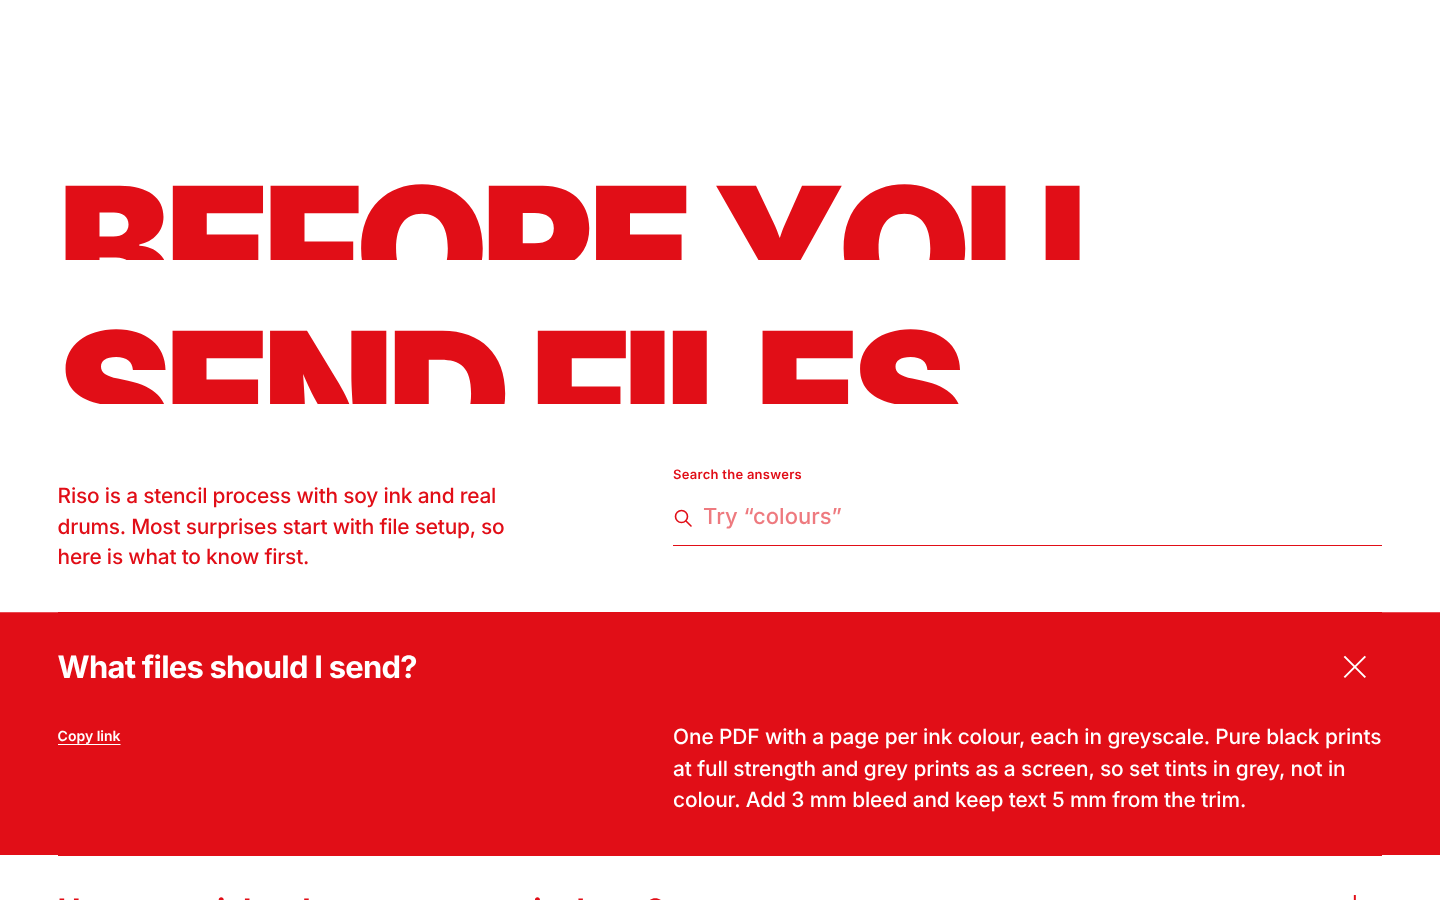
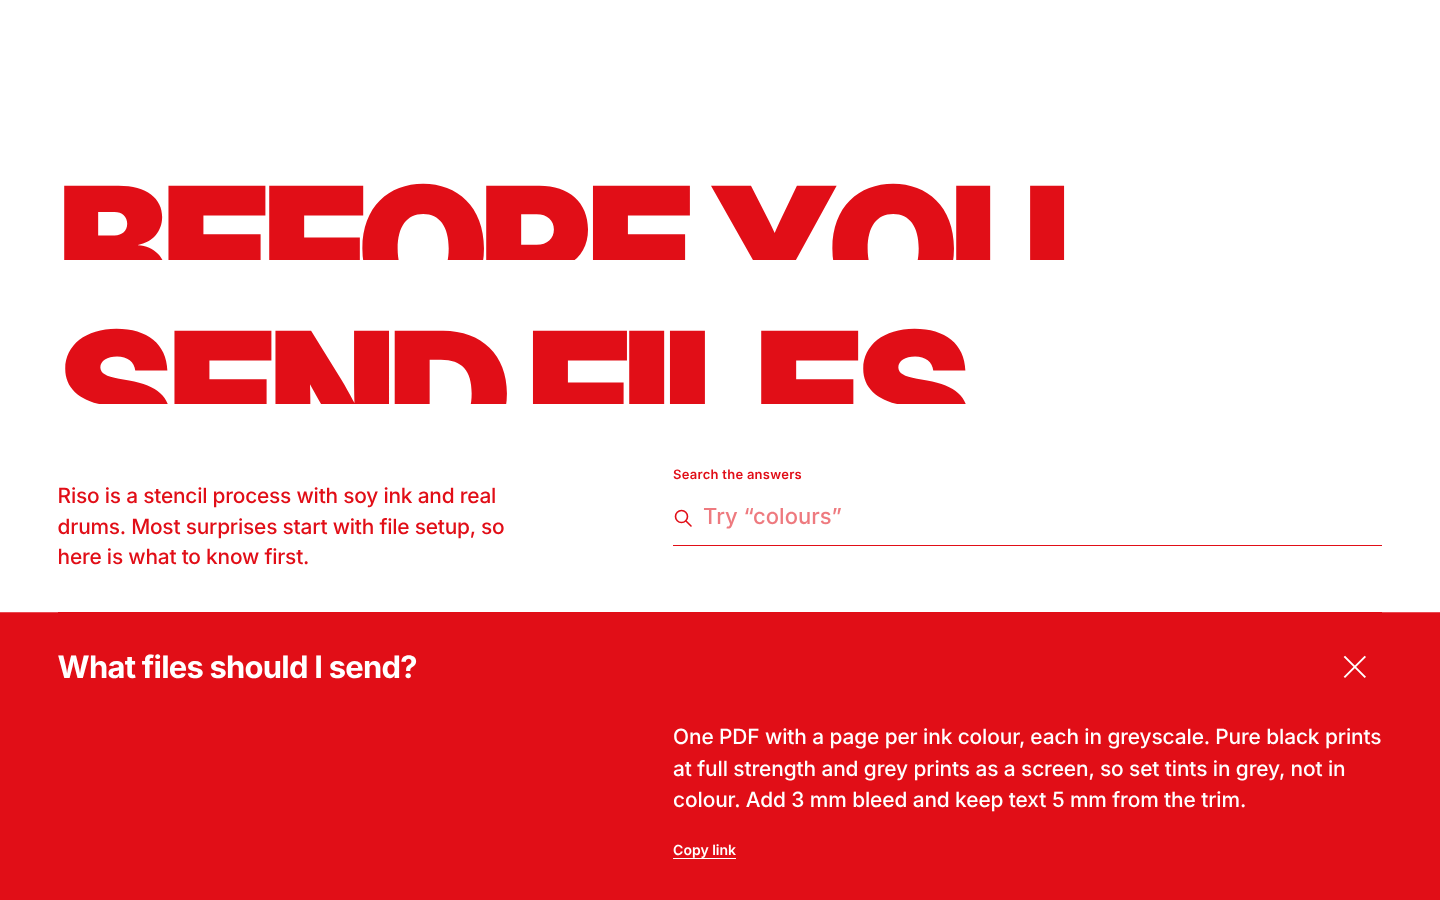
slit-type-faq: round 2 polish: pausable ticker, phone cut, All count
Claude-Session: https://claude.ai/code/session_0118DWJbsYeX8C27set6fKie

diff --git a/components/slit-type-faq/slit-type-faq.tsx b/components/slit-type-faq/slit-type-faq.tsx
@@ -372,10 +372,14 @@ const css = `
   margin-top: -0.06em;
 }
 .stf-title[data-slit="true"] { cursor: default; }
+.stf-title { --stf-cut-k: 1; }
+@container (max-width: 560px) {
+  .stf-title { --stf-cut-k: 0.86; }
+}
 .stf-word { display: inline-block; white-space: nowrap; }
 .stf-ch {
   display: inline-block;
-  transform: translateY(var(--stf-cut));
+  transform: translateY(calc(var(--stf-cut) * var(--stf-cut-k)));
   transition: transform 820ms var(--stf-ease-out);
   transition-delay: min(calc(var(--i) * 26ms), 420ms);
 }
@@ -402,11 +406,38 @@ const css = `
   letter-spacing: 0.02em;
   text-transform: uppercase;
   padding: 0.55em 0;
+  display: flex;
+  align-items: center;
+  gap: 12px;
+}
+.stf-ticker-mask {
+  flex: 1;
+  min-width: 0;
+  overflow: hidden;
   -webkit-mask-image: linear-gradient(90deg, transparent, #000 8%, #000 92%, transparent);
   mask-image: linear-gradient(90deg, transparent, #000 8%, #000 92%, transparent);
 }
+.stf-ticker-toggle {
+  flex: none;
+  display: grid;
+  place-items: center;
+  width: 36px;
+  height: 36px;
+  appearance: none;
+  border: 0;
+  border-radius: 999px;
+  background: transparent;
+  color: var(--k);
+  cursor: pointer;
+  transition: background-color 160ms ease, color 160ms ease;
+}
+.stf-ticker-toggle svg { width: 14px; height: 14px; }
+.stf-ticker-toggle:hover { background: var(--k); color: var(--o); }
+.stf-ticker-toggle:focus-visible { outline: 2px solid var(--k); outline-offset: 2px; }
 .stf-ticker-track { display: inline-flex; animation: stf-ticker 38s linear infinite; }
-.stf-ticker:hover .stf-ticker-track { animation-play-state: paused; }
+.stf-ticker:hover .stf-ticker-track,
+.stf-ticker:focus-within .stf-ticker-track,
+.stf-ticker[data-paused="true"] .stf-ticker-track { animation-play-state: paused; }
 .stf-ticker-run { display: inline-flex; flex: none; }
 .stf-ticker-run span { padding: 0 0.9em; }
 .stf-ticker-run span::after { content: ""; display: inline-block; width: 0.38em; height: 0.38em; border-radius: 50%; background: var(--k); margin-left: 1.8em; vertical-align: 0.14em; }
@@ -648,9 +679,9 @@ const css = `
 }
 .stf-copy:focus-visible { outline: 2px solid var(--o); outline-offset: 3px; }
 @container (min-width: 760px) {
-  .stf-answer { grid-template-columns: minmax(0, 1fr) minmax(0, 1.25fr); gap: 48px; }
-  .stf-tools { order: 0; }
-  .stf-text { order: 1; }
+  .stf-answer { grid-template-columns: minmax(0, 1fr) minmax(0, 1.25fr); column-gap: 48px; row-gap: 20px; }
+  .stf-text,
+  .stf-tools { grid-column: 2; }
 }
 
 .stf-empty { padding: clamp(28px, 4cqi, 56px) 0; border-top: var(--stf-rule) solid var(--k); }
@@ -703,8 +734,9 @@ const css = `
 
 @media (prefers-reduced-motion: reduce) {
   .stf-ch,
-  .stf[data-intro="pending"] .stf-ch { transform: translateY(var(--stf-cut)); transition: none; }
+  .stf[data-intro="pending"] .stf-ch { transform: translateY(calc(var(--stf-cut) * var(--stf-cut-k))); transition: none; }
   .stf-ticker-track { animation: none; }
+  .stf-ticker-toggle { display: none; }
   .stf-fill,
   .stf-row--inv,
   .stf-panel,
@@ -767,8 +799,8 @@ export default function SlitTypeFaq({
   copyLinks = true,
   syncHash = false,
   minHeight = 0,
-  displayFont = '"Helvetica Neue", Helvetica, "Inter Display", Inter, "Arial Black", Arial, sans-serif',
-  textFont = '"Helvetica Neue", Helvetica, Inter, Arial, system-ui, sans-serif',
+  displayFont = '"Inter Display", Inter, -apple-system, BlinkMacSystemFont, "Segoe UI", "Helvetica Neue", "Arial Black", Arial, sans-serif',
+  textFont = 'Inter, -apple-system, BlinkMacSystemFont, "Segoe UI", "Helvetica Neue", Arial, sans-serif',
   onOpenChange,
   ariaLabel,
   className,
@@ -807,6 +839,7 @@ export default function SlitTypeFaq({
   const [query, setQuery] = React.useState("")
   const [category, setCategory] = React.useState(null as string | null)
   const [copied, setCopied] = React.useState(null as string | null)
+  const [tickerPaused, setTickerPaused] = React.useState(false)
   const [introState, setIntroState] = React.useState("pending" as "pending" | "done")
 
   const reduced = React.useCallback(
@@ -931,6 +964,8 @@ export default function SlitTypeFaq({
     return out
   }, [items, texts, query])
 
+  const allCount = texts.filter((t) => matches(t, query)).length
+
   const visible = items
     .map((it, i) => ({ it, i, id: ids[i] }))
     .filter(({ it, i }) => (!category || it.category === category) && matches(texts[i], query))
@@ -982,16 +1017,36 @@ export default function SlitTypeFaq({
         {headline ? <Headline text={headline} id={uid + "-h"} slit={cut > 0} /> : null}
 
         {ticker && ticker.length ? (
-          <div className="stf-ticker" aria-label={ticker.join(", ")} role="note">
-            <div className="stf-ticker-track" aria-hidden="true">
-              {[0, 1].map((copy) => (
-                <div className="stf-ticker-run" key={copy}>
-                  {[...ticker, ...ticker].map((t, k) => (
-                    <span key={k}>{t}</span>
-                  ))}
-                </div>
-              ))}
+          <div className="stf-ticker" data-paused={tickerPaused ? "true" : "false"}>
+            <p className="stf-sr">{ticker.join(". ")}</p>
+            <div className="stf-ticker-mask" aria-hidden="true">
+              <div className="stf-ticker-track">
+                {[0, 1].map((copy) => (
+                  <div className="stf-ticker-run" key={copy}>
+                    {[...ticker, ...ticker].map((t, k) => (
+                      <span key={k}>{t}</span>
+                    ))}
+                  </div>
+                ))}
+              </div>
             </div>
+            <button
+              type="button"
+              className="stf-ticker-toggle"
+              aria-label={tickerPaused ? "Play the moving line" : "Pause the moving line"}
+              aria-pressed={tickerPaused}
+              onClick={() => setTickerPaused((v) => !v)}
+            >
+              {tickerPaused ? (
+                <svg viewBox="0 0 14 14" aria-hidden="true">
+                  <path d="M3.5 2v10l8.5-5z" fill="currentColor" />
+                </svg>
+              ) : (
+                <svg viewBox="0 0 14 14" aria-hidden="true">
+                  <path d="M3 2h3v10H3zM8 2h3v10H8z" fill="currentColor" />
+                </svg>
+              )}
+            </button>
           </div>
         ) : null}
 
@@ -1043,7 +1098,7 @@ export default function SlitTypeFaq({
           <ul className="stf-chips" aria-label="Filter by topic">
             <li>
               <button type="button" className="stf-chip" aria-pressed={category === null} onClick={() => setCategory(null)}>
-                All <small>{Object.values(counts).reduce((a, b) => a + b, 0) || visible.length}</small>
+                All <small>{allCount}</small>
               </button>
             </li>
             {categories.map((c) => (

diff --git a/components/slit-type-faq/demo-cobalt.tsx b/components/slit-type-faq/demo-cobalt.tsx
@@ -29,7 +29,6 @@ export default function SlitTypeFaqCobaltDemo() {
                 </p>
               </>
             ),
-            answerText: "Yes. Drop in an xlsx or csv export and Rostra matches names to staff and times to shifts. import guide column layout spreadsheet",
           },
           {
             category: "Setup",

diff --git a/components/slit-type-faq/README.md b/components/slit-type-faq/README.md
@@ -23,7 +23,8 @@ along.
 - Search across questions and answers, with every word matched in any order and the matches
   marked. When a match is in an answer, a short excerpt around it appears under the question. Esc clears it, ↓ jumps to the first result, and an empty result offers to show
   every question again.
-- Optional category chips with live counts, and an optional ticker between rules.
+- Optional category chips with live counts, and an optional ticker between rules. The ticker
+  pauses on hover and on keyboard focus, and has its own pause button.
 - Light and dark versions of every preset. `theme="auto"` follows a `.dark` class on any
   ancestor (the shadcn / Tailwind convention).
 - Under `prefers-reduced-motion` the headline is simply there, the ticker stands still and
@@ -39,7 +40,7 @@ screen.
 |---|---|---|
 | `items` | 8 questions for a risograph print shop | `{ question, answer, answerText?, category?, id? }[]`. `answer` is any node; give `answerText` for search when it is not a string (otherwise its text is extracted). |
 | `headline` | "Before you\nsend files" | Set in capitals. `\n` breaks the line. Pass `""` to drop it. Screen readers get it as one plain string. |
-| `slit` | `0.42` | Share of each capital hidden by the slit at rest, `0` to `0.5`. `0` sets the headline whole. |
+| `slit` | `0.42` | Share of each capital hidden by the slit at rest, `0` to `0.5`. `0` sets the headline whole. Containers under 560 px cut a little shallower so the phone headline still reads. Very shallow cuts (under about 0.35) can leave slivers of round letters such as S. |
 | `intro` | one line about riso | Any node, shown beside the search. |
 | `preset` | `"signal"` | `signal` (red on white), `cobalt`, `moss`, `carbon`. Each has a designed dark version. |
 | `palette` / `darkPalette` | none | Override `paper`, `ink`, `onInk`. Without `onInk`, the text on the flood is picked for 4.5:1 contrast. |
@@ -50,12 +51,12 @@ screen.
 | `idPrefix` | `""` | Prefixed to every id, so two FAQs on one page never share a `#hash`. |
 | `search` / `searchLabel` | `true` / "Search the answers" | |
 | `categories` | none | Chip labels matched against `item.category`. Omit to hide the chips. |
-| `ticker` | none | Short phrases that run between rules under the headline. Pauses on hover. |
+| `ticker` | none | Short phrases that run between rules under the headline. Screen readers get them once, as text. |
 | `contact` | "Still have a question?" + mail link | `{ prompt, label, href }` or `null`. |
 | `copyLinks` | `true` | Copy-link button in each open answer. |
 | `syncHash` | `false` | Write the open question's id into `location.hash`. |
 | `minHeight` | `0` | Any CSS length. |
-| `displayFont` / `textFont` | Helvetica Neue, Inter, Arial Black / Arial | Pass your own stacks, e.g. `"var(--font-sans)"`. The headline wants a heavy weight (800 to 900). |
+| `displayFont` / `textFont` | Inter, then the system UI face (SF Pro, Segoe UI), Helvetica Neue, Arial | Pass your own stacks, e.g. `"var(--font-sans)"`. The headline is set at weight 900, so pick a family that has one. |
 | `onOpenChange` | none | Called with the ids of the open questions. |
 | `className`, `style`, `ariaLabel` | | |
 

diff --git a/media/slit-type-faq/review.md b/media/slit-type-faq/review.md
@@ -68,3 +68,32 @@ Findings and what changed:
 9. `Arial Black` added before Arial so Windows keeps the headline's weight.
 10. Controlled `open`, `idPrefix` for two FAQs on one page, and `minHeight` now defaults to 0
     (the section sizes to its questions).
+
+## Round 2 (fresh critic): SHIP, with no margin
+
+| | Score |
+|---|---|
+| (u) usability | 8 |
+| (a) idea / reference feel | 8 |
+| (b) craft | 8 |
+| (c) originality | 7 |
+| (d) install-safety | 9 |
+| average | 8.0 |
+
+The critic passed it and listed non-blocking polish. Two items were real defects, so all of them
+went in before a third check:
+
+1. The ticker only paused on mouse hover (fails WCAG 2.2.2). It now pauses on keyboard focus
+   and has its own pause button; screen readers get the phrases once, as text.
+2. The "All" chip undercounted when some questions had no category. It now counts every
+   question matching the search.
+3. At 375 px the cut headline read as a thin strip. Containers under 560 px cut a little
+   shallower (0.86 of the depth), the shallowest depth tested that leaves no S slivers.
+4. The ticker's fade mask also faded its rules. The mask moved to an inner wrapper, so the
+   rules run crisp edge to edge.
+5. The open row's left column held only "Copy link". The answer and its tools now sit
+   together in the column aligned with the search field.
+6. The cobalt demo's hand-written `answerText` differed from the rendered copy, so it was
+   removed (the text is extracted from the node).
+7. Font stack: Inter, then the system UI face (SF Pro / Segoe UI both have a 900), then
+   Helvetica Neue and Arial, so the headline keeps its weight off Linux too.
